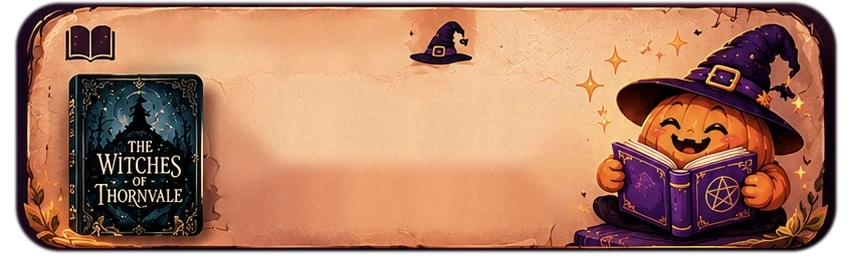
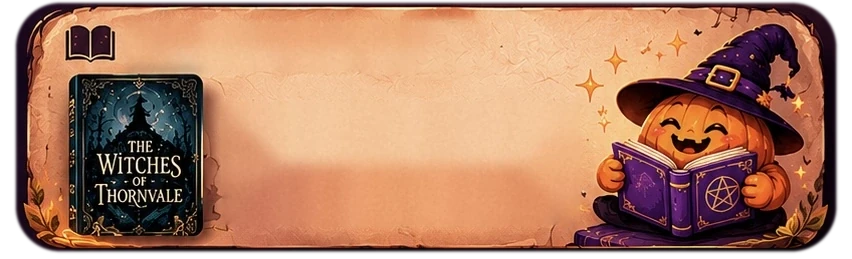
Next to Collect card: random wishlist book; witch hat moved from Latest Addition
Claude-Session: https://claude.ai/code/session_01DZ2PcvGyS618JmL5zui3Ep

Changed region(s): [[0.4577, 0.0618, 0.5798, 0.278]]

diff --git a/home.js b/home.js
@@ -18,7 +18,7 @@ async function loadBooks(){
   BOOKS=await Store.all();
   // books from before genres: guess one once (she can change it on the book page)
   const todo=BOOKS.filter(b=>!GENRES.includes(b.genre));todo.forEach(b=>{b.genre=guessGenre(b)});
-  renderLatest();renderGenres();
+  renderLatest();renderWish();renderGenres();
   for(const b of todo)await Store.put(b).catch(()=>{});
 }
 function renderLatest(){
@@ -30,10 +30,26 @@ function renderLatest(){
   document.getElementById('laWhen').textContent=b?whenText(b.added):'';
   setBook(document.getElementById('laBook'),b?{...b,title}:null);
 }
+/* ---------- Next to Collect: a random wishlist book, new each time Home opens ---------- */
+let wishId=null,lastWish=null;
+function pickWish(){const w=BOOKS.filter(b=>b.status==='wishlist');if(!w.length){wishId=null;return}
+  const pool=w.length>1?w.filter(b=>b.id!==lastWish):w;wishId=pool[Math.floor(Math.random()*pool.length)].id;lastWish=wishId}
+function renderWish(){
+  let b=BOOKS.find(x=>x.id===wishId&&x.status==='wishlist');if(!b){pickWish();b=BOOKS.find(x=>x.id===wishId)}
+  const title=b?(b.title||'Untitled'):'No wishes yet';
+  const tEl=document.getElementById('wiTitle');tEl.textContent=title;
+  tEl.style.fontSize='';let fs=35;while(tEl.scrollWidth>tEl.clientWidth&&fs>27){tEl.style.fontSize=--fs+'px'}
+  document.getElementById('wiAuthor').textContent=b?((b.authors||[]).join(', ')||'Unknown author'):'Add a book to your wishlist';
+  document.getElementById('wiNote').textContent=b?'On your wishlist':'';
+  setBook(document.getElementById('wiBook'),b?{...b,title}:null);
+}
+document.querySelectorAll('#nook .cr-title,#nook .cr-author,#nook .la-when,#wiBook').forEach(e=>{e.style.cursor='pointer';e.addEventListener('click',()=>{
+  if(wishId)location.href='book.html?id='+encodeURIComponent(wishId)})});
+addEventListener('pageshow',()=>{wishId=null});   // coming back to Home: a new teaser
 document.querySelectorAll('#reading .cr-title,#reading .cr-author,#reading .la-when,#laBook').forEach(e=>{e.style.cursor='pointer';e.addEventListener('click',()=>{
   const b=newestBook();if(b&&b.id)location.href='book.html?id='+encodeURIComponent(b.id)})});
 const booksP=loadBooks();booksP.then(()=>Store.fetchMissingCovers());   // keep a copy of every cover on the phone
-Store.onChange(loadBooks);{const ti=document.querySelector('#tabbar img');if(ti&&!ti.complete)ti.addEventListener('load',layoutCards);}layoutCards();if(document.fonts)document.fonts.ready.then(()=>{renderGenres();renderLatest()});addEventListener('pageshow',loadBooks);
+Store.onChange(loadBooks);{const ti=document.querySelector('#tabbar img');if(ti&&!ti.complete)ti.addEventListener('load',layoutCards);}layoutCards();if(document.fonts)document.fonts.ready.then(()=>{renderGenres();renderLatest();renderWish()});addEventListener('pageshow',loadBooks);
 document.addEventListener('visibilitychange',()=>{if(!document.hidden)loadBooks()});
 
 /* ---------- show Home only when it's ready: pictures decoded, fonts, books (max 2.5 s) ---------- */
@@ -66,7 +82,7 @@ addEventListener('pageshow',e=>{if(e.persisted)showQuote()});
 document.addEventListener('visibilitychange',()=>{if(!document.hidden)showQuote()});
 
 /* ---------- offline + auto-update ---------- */
-const APP_VERSION='home-47';
+const APP_VERSION='home-48';
 // a new version arrived: drop the saved pictures once so new art shows straight away
 try{const v=localStorage.getItem('home.ver');
   if(v!==APP_VERSION){localStorage.setItem('home.ver',APP_VERSION);

diff --git a/index.html b/index.html
@@ -3,7 +3,7 @@
 <head>
 <meta charset="utf-8">
 <meta http-equiv="Cache-Control" content="no-cache">
-<meta name="app-version" content="home-47">
+<meta name="app-version" content="home-48">
 <meta name="viewport" content="width=device-width, initial-scale=1, viewport-fit=cover, user-scalable=no">
 <link rel="preload" as="image" href="img/frame.webp" fetchpriority="high">
 <link rel="preload" as="image" href="img/canopy.webp">
@@ -92,7 +92,13 @@
     <div class="cr-author" id="laAuthor"></div>
     <div class="la-when" id="laWhen"></div>
   </section>
-  <section id="nook" aria-label="Cosy corner"></section>
+  <section id="nook" aria-label="Next to collect">
+    <div class="la-head">Next to Collect</div><img class="hat" src="img/hat.webp" alt="">
+    <div class="bk" id="wiBook"><img class="bk-shadow" src="img/book.png" alt=""><div class="bk-tint"></div><img class="bk-shade" src="img/book_shade.png" alt=""><img class="bk-gold" src="img/book_gold.png" alt=""><div class="bk-frame"><img class="bk-cover" alt="" hidden><div class="bk-ph"><svg viewBox="0 0 40 40" aria-hidden="true"><path d="M24 6a14 14 0 1 0 10 24A11 11 0 1 1 24 6z" fill="#e9c873"/><path d="M31 9l1 2.4 2.4 1-2.4 1-1 2.4-1-2.4-2.4-1 2.4-1z" fill="#f6dc96"/></svg><span></span></div></div></div>
+    <div class="cr-title" id="wiTitle"></div>
+    <div class="cr-author" id="wiAuthor"></div>
+    <div class="la-when" id="wiNote"></div>
+  </section>
   <section id="genres" aria-label="Collections by genre">
     <button class="gc" style="left:49.2px;background-image:url(img/genre_wiccan.webp)" data-g="Wiccan Fantasy"><span class="gl" style="top:78px">Wiccan<br>Fantasy</span><span class="gn"></span></button>
     <button class="gc" style="left:195.5px;background-image:url(img/genre_fantasy.webp)" data-g="Fantasy"><span class="gl" style="top:77px">Fantasy</span><span class="gn"></span></button>

diff --git a/home.css b/home.css
@@ -60,7 +60,16 @@ html,body{margin:0;height:100%;background:var(--skyTop,#12051f);overflow:hidden;
 
 #nook{left:27px!important;top:954.6px;width:796px;height:228px;border-radius:33px;overflow:hidden;z-index:3;
  background:url(img/nook_fg.webp) right center/auto 100% no-repeat,url(img/nook_bg.webp) center/100% 100% no-repeat;
- filter:drop-shadow(0 4px 8px rgba(0,0,0,.55))}
+ filter:drop-shadow(0 4px 8px rgba(0,0,0,.55));font-family:"EB Garamond",Georgia,serif;color:#2a1410}
+/* Next to Collect: a random wishlist book, laid out like Latest Addition (same spots on the card) */
+#nook>*{position:absolute}
+#nook .la-head{left:103px;top:7.2%}
+#nook .hat{left:36px;top:6.9%;width:56px;height:17%}
+#nook .bk{left:38px;top:24.3%;width:var(--bk,143px)}
+#nook .la-head{color:#f1cf7c;text-shadow:0 2px 3px rgba(0,0,0,.8)}
+#nook .hat{filter:drop-shadow(0 0 1.5px rgba(241,207,124,.9)) drop-shadow(0 0 6px rgba(241,207,124,.35))}
+#nook .cr-title,#nook .cr-author,#nook .la-when{width:245px;text-shadow:0 2px 3px rgba(0,0,0,.8)}
+#nook .cr-title{left:205px;top:35.7%;color:#f6e2b0}#nook .cr-author{left:206px;top:54.6%;color:#e6cfa2}#nook .la-when{left:206px;top:71.2%;color:#c9a3c4}
 #genres{left:23.4px!important;top:1192.6px;width:803.2px;height:238.8px;box-sizing:border-box;z-index:3;
  border-style:solid;border-width:50.2px 0 20.1px;border-image:url(img/genres_bg.webp) 77 0 31 0 fill stretch;
  font-family:"EB Garamond",Georgia,serif;color:#fbf1da}

diff --git a/scene.js b/scene.js
@@ -23,7 +23,7 @@ function layoutCards(){
   const c1=BAR+G,c2=c1+H+G,c3=c2+H+G;
   const r=document.getElementById('reading'),hb=H*259/240;
   r.style.top=(c1-7*hb/259)+'px';r.style.height=hb+'px';r.style.setProperty('--bk',(143*hb/246)+'px');
-  const n=document.getElementById('nook');n.style.top=c2+'px';n.style.height=H+'px';
+  const n=document.getElementById('nook');n.style.top=c2+'px';n.style.height=H+'px';n.style.setProperty('--bk',(143*hb/246)+'px');
   const g=document.getElementById('genres'),f=.4014,he=H+27*f;
   g.style.top=(c3-10*f)+'px';g.style.height=he+'px';
   const band=he-6.8-50.2,tt=(band-146.9)/2,sc=Math.min(1,(band-12)/146.9);   // centre tiles; shrink a little on small phones
